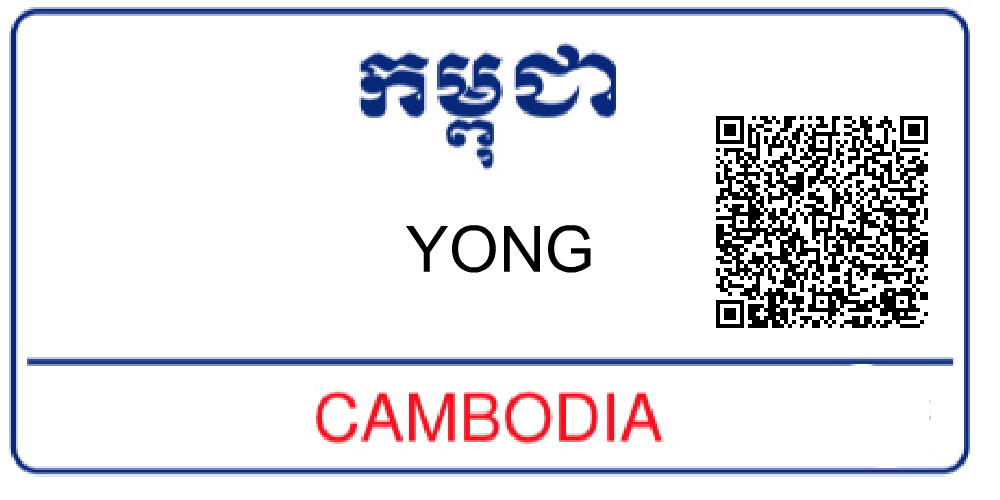
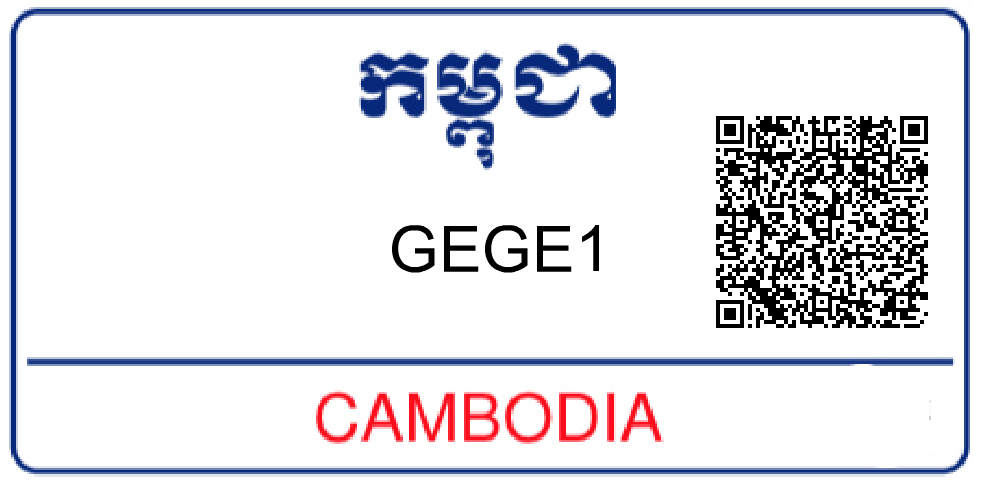
Route_And_QRcode

Changed region(s): [[0.713, 0.21, 0.93, 0.66], [0.372, 0.45, 0.62, 0.57]]

diff --git a/fn/writeImg.js b/fn/writeImg.js
@@ -1,24 +1,11 @@
 const Jimp = require("jimp");
 const QRcode = require("./QRcode.js");
 var fileName = "./img/index.png";
-//import mergeImg from "merge-img";
 const mergeImg = require("merge-img");
 var fs = require("fs");
 const mergeImages = require("merge-images");
 var images = require("images");
 
-//let a = fs.readFile("/Users/user/Desktop/Plate-number/public/img/qr.png");
-
-// qr.then(function(qr) {
-//   a = qr;
-//   console.log(a);
-// });
-// const a = fs.readFile(
-//   "/Users/user/Desktop/Plate-number/public/img/qr.png",
-//   (err, data) => {
-//     console.log(data);
-//   }
-// );
 let a;
 const writeImg1 = function writeImg(newName) {
   Jimp.read(fileName)
@@ -46,29 +33,32 @@ const writeImg1 = function writeImg(newName) {
     });
 };
 
-const writeImg2 = function writeImg(newName, url) {
+const writeImg2 = async function writeImg(newName, url, userID) {
   //////////QR code//////////
 
-  // console.log(url);
-  // const qr = QRcode(url);
+  console.log(url);
+  const qr = await QRcode(url, userID);
+
   // qr.then(function(qr) {
-  //   a = qr;
+  //  console.log(qr);
+  // }
+
   images(fileName) //Load image from file
     //加载图像文件
     .size(1000) //Geometric scaling the image to 400 pixels width
     //等比缩放图像到400像素宽
     .draw(
-      images("/Users/user/Desktop/Plate-number/public/img/qr.png"),
+      images(`/Users/user/Desktop/Plate-number/public/img/${userID}.png`),
       700,
       100
     ) //Drawn logo at coordinates (10,10)
     //在(10,10)处绘制Logo
-    .save("/Users/user/Desktop/Plate-number/img-temp/hello.png", {
+    .save(`/Users/user/Desktop/Plate-number/img-temp/${userID}.png`, {
       //Save the image to a file, with the quality of 50
       quality: 1000 //保存图片到文件,图片质量为50
     });
   //Read 1
-  Jimp.read("/Users/user/Desktop/Plate-number/img-temp/hello.png")
+  Jimp.read(`/Users/user/Desktop/Plate-number/img-temp/${userID}.png`)
     .then(function(image) {
       loadedImage = image;
       return Jimp.loadFont(Jimp.FONT_SANS_64_BLACK);
@@ -86,9 +76,12 @@ const writeImg2 = function writeImg(newName, url) {
           textWidth,
           textHight
         )
-        .write("/Users/user/Desktop/Plate-number/img-temp/hello.png");
+        .write(`/Users/user/Desktop/Plate-number/img-temp/${userID}.png`);
     });
 };
+
+module.exports.writeImg1 = writeImg1;
+module.exports.writeImg2 = writeImg2;
 
 /* mergeImages([
         {
@@ -177,5 +170,3 @@ const writeImg2 = function writeImg(newName, url) {
       }
     );
 */
-module.exports.writeImg1 = writeImg1;
-module.exports.writeImg2 = writeImg2;

diff --git a/routes/post.js b/routes/post.js
@@ -45,7 +45,6 @@ router.post("/name", async (req, res) => {
 
 router.post("/buy", auth, async (req, res) => {
   //testing only
-  name = "yong";
 
   const token = req.header("auth-token");
   var decoded = jwt.verify(token, process.env.TOKEN_SECRET);
@@ -54,15 +53,16 @@ router.post("/buy", auth, async (req, res) => {
   console.log(user);
   //QRcode URL
   const qrURL = `http://localhost:3000/QR/?_userId=${user._id}&buyer_name=${user.username}&plate_number=${name}&phone=${user.phone}&DOB=${user.DOB}`;
-  writeImg.writeImg2(name.toUpperCase(), qrURL);
+  const userID = user._id;
+  writeImg.writeImg2(name.toUpperCase(), qrURL, userID);
   const buyer = new Buyer({
     _userId: user._id,
     buyer_name: user.username,
     plate_number: name,
     price: price,
     phone: user.phone,
-    DOB: user.DOB
-    // img_path:`http://localhost:3000/public/img/${}`
+    DOB: user.DOB,
+    img_path: `http://localhost:3000/public/img-temp/${userID}`
   });
   try {
     const save_buyer = await buyer.save();

diff --git a/fn/QRcode.js b/fn/QRcode.js
@@ -1,25 +1,25 @@
 const QRCode = require("qrcode");
 
-// const generateQR = async text => {
-//   try {
-//     const qr = await QRCode.toFile(
-//       "/Users/user/Desktop/Plate-number/public/img/qr.png",
-//       text
-//     );
-//     return qr;
-//   } catch (err) {
-//     console.error(err);
-//   }
-// };
-
-const generateQR = async text => {
+const generateQR = async (text, userID) => {
   try {
-    const qr = await QRCode.toString(text, { errorCorrectionLevel: "M" });
+    const qr = await QRCode.toFile(
+      `/Users/user/Desktop/Plate-number/public/img/${userID}.png`,
+      text
+    );
     return qr;
   } catch (err) {
     console.error(err);
   }
 };
+
+// const generateQR = async text => {
+//   try {
+//     const qr = await QRCode.toString(text, { errorCorrectionLevel: "M" });
+//     return qr;
+//   } catch (err) {
+//     console.error(err);
+//   }
+// };
 
 // const generateQR = async text => {
 //   try {
